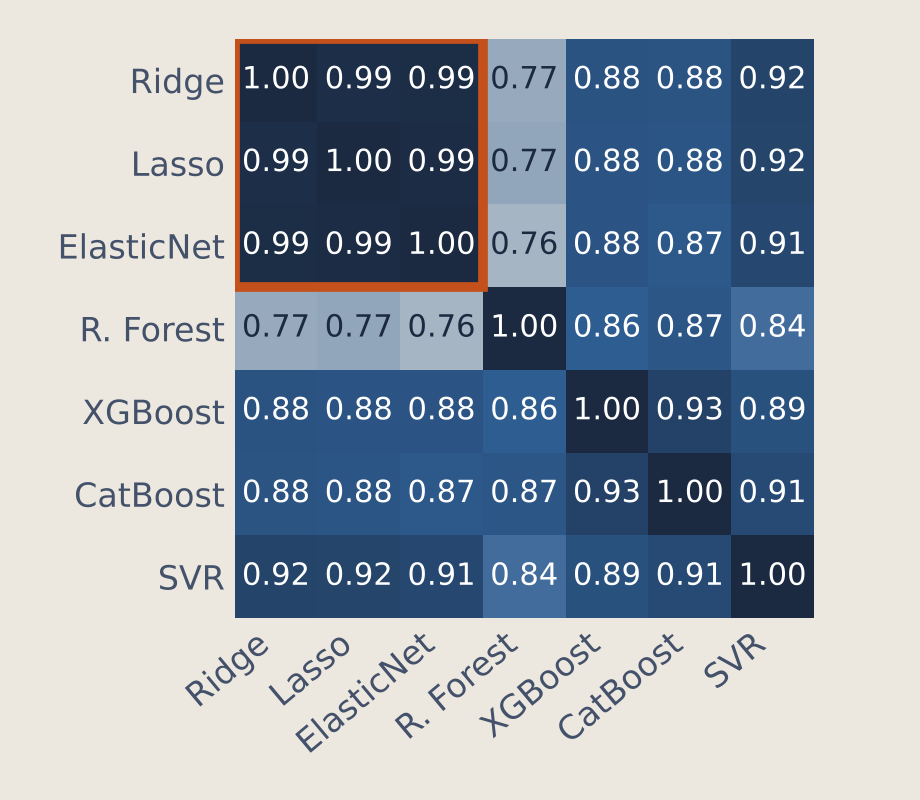
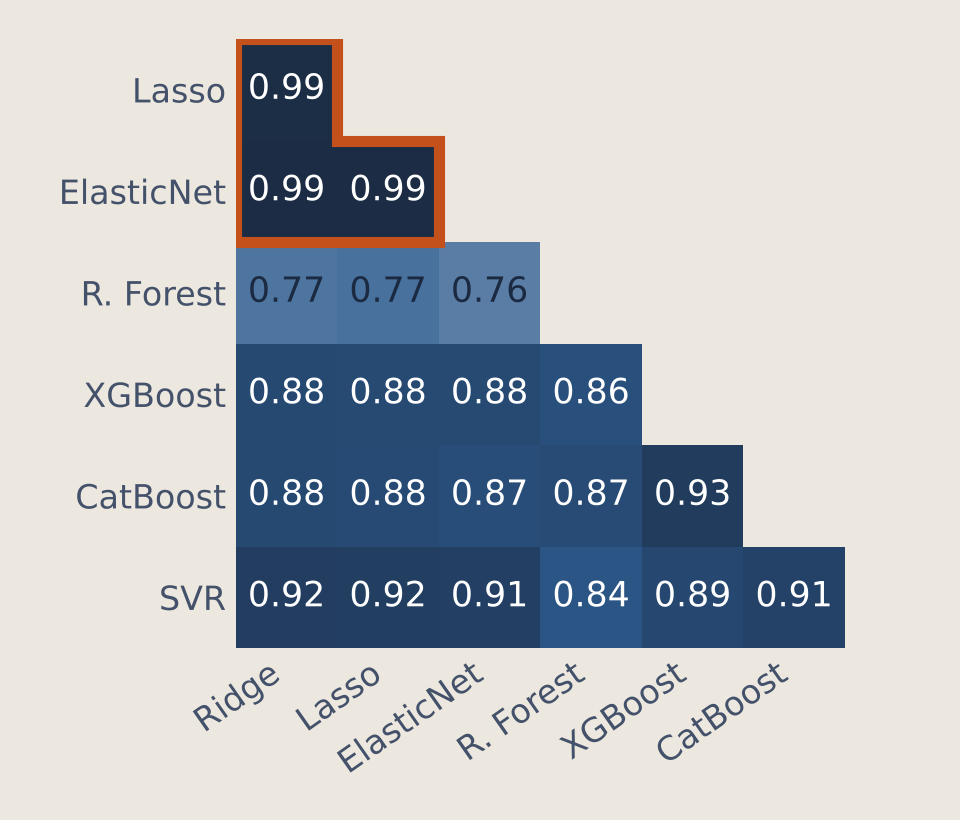
Give the blend and leaderboard charts more room
Slide 9: half heatmap with bigger cells, sized to fit the slide height.
Slide 10: full-width CV vs Kaggle chart with the three points below it.

Claude-Session: https://claude.ai/code/session_012wxNfNDHv6TyzDWgreaVpx

diff --git a/report/slides/project/slides/leaderboard.html b/report/slides/project/slides/leaderboard.html
@@ -3,12 +3,12 @@
 <p class="eyebrow">ON THE LEADERBOARD</p>
 <h2>Our best CV score lost to our first attempt</h2>
 </div>
-<div class="body" style="grid-template-columns:1000px 1fr; gap:64px">
-<img class="fig rise" style="--i:1; width:1000px" src="/_blob/ceef6e349470cbd2ee4b379d960e8939" alt="Line chart of CV and Kaggle scores for submissions S1 to S7; S6 is worse than the first attempt on Kaggle, S7 is better">
-<div class="col" style="gap:40px">
-<p class="lead"><b>S1 to S4:</b> CV and Kaggle improved together.</p>
-<p class="lead"><b>S6</b>, our best CV, scored 0.12037 on Kaggle: worse than the first attempt.</p>
-<p class="lead">Instead of trying more models, we looked at <b>where the errors came from</b>.</p>
+<div class="body" style="grid-template-rows:auto auto; align-content:center; gap:32px">
+<img class="fig rise" style="--i:1; width:1664px" src="/_blob/9a0e5acb584f46db125eb553cb1009ae" alt="Line chart of CV and Kaggle scores for submissions S1 to S7; S6 is worse than the first attempt on Kaggle, S7 is better">
+<div class="cards" style="gap:64px">
+<p class="lead rise" style="--i:2"><b>S1–S4:</b> CV and Kaggle improved together.</p>
+<p class="lead rise" style="--i:3"><b>S6:</b> best CV, but 0.12037 on Kaggle, worse than the first attempt.</p>
+<p class="lead rise" style="--i:4"><b>So</b> we stopped adding models and looked at the errors.</p>
 </div>
 </div>
 <aside>[Member 1] Then we submitted to Kaggle. From S1 to S4, our CV and the leaderboard improved together. After that they did not. Our blend, S6, had our best CV score, but on Kaggle it scored 0.12037, worse than our first attempt. Instead of trying more models, we looked at where our errors came from.</aside>

diff --git a/report/slides/project/slides/blend.html b/report/slides/project/slides/blend.html
@@ -3,12 +3,10 @@
 <p class="eyebrow">BLENDING</p>
 <h2>Blend models that make different mistakes</h2>
 </div>
-<div class="body" style="grid-template-columns:840px 1fr">
-<div class="col tight rise" style="--i:1">
-<p class="caption">How alike the models’ errors are (correlation)</p>
-<img class="fig" style="width:840px" src="/_blob/d755ca9d7a8ef1349ff2ae21addfc2cf" alt="Heatmap of correlations between the models' errors; Ridge, Lasso and ElasticNet (outlined) correlate at 0.99, the others 0.76 to 0.93">
-</div>
+<div class="body" style="grid-template-columns:760px 1fr; gap:96px">
+<img class="fig rise" style="--i:1; height:640px; width:auto" src="/_blob/e3919176590204f5979c33e2d35b53e0" alt="Half heatmap of correlations between the models' errors; Ridge, Lasso and ElasticNet (outlined) correlate at 0.99, the others 0.76 to 0.93">
 <div class="col" style="gap:40px">
+<p class="caption">The chart shows how alike the models’ errors are (correlation, 1.00 = identical).</p>
 <p class="lead">Ridge, Lasso and ElasticNet make almost the same errors (0.99), so we keep only <b>Lasso</b>.</p>
 <p class="lead">Lasso + XGBoost + CatBoost + SVR, <b>equal weights</b>:</p>
 <div class="col tight">

diff --git a/report/make_slide_figures.py b/report/make_slide_figures.py
@@ -46,23 +46,24 @@ ax.set(xlabel="living area (sq ft)", ylabel="price ($1,000)", xlim=(0, 6000))
 fig.tight_layout()
 save(fig, "outliers.png", ALT)
 
-# CV vs Kaggle by submission: 1000 x 660 px
+# CV vs Kaggle by submission: full slide width, 1664 x 540 px
 k = pd.read_csv(ROOT / "v2" / "results" / "kaggle_log.csv")
 x = np.arange(1, len(k) + 1)
-fig, ax = plt.subplots(figsize=(5.0, 3.3))
-ax.axhline(0.11745, ls=(0, (4, 3)), color=GREY, lw=1.5)
-ax.text(0.85, 0.1168, "first attempt 0.11745", va="top", fontsize=11, color=SOFT)
-ax.plot(x, k.cv_rmse, "o-", color=BLUE, lw=2, ms=7, label="our CV")
-ax.plot(x, k.kaggle_score, "s-", color=ACCENT, lw=2, ms=7, label="Kaggle")
-ax.annotate("0.12037", (6, 0.12037), xytext=(0, 12), textcoords="offset points", ha="center", fontsize=11, color=INK)
-ax.annotate("0.11624", (7, 0.11624), xytext=(-14, -4), textcoords="offset points", ha="right", va="top", fontsize=11, color=INK, weight="bold")
+fig, ax = plt.subplots(figsize=(8.32, 2.7))
+ax.hlines(0.11745, 0.7, 7.15, ls=(0, (4, 3)), color=GREY, lw=1.5)
+ax.text(1, 0.1180, "first attempt 0.11745", va="bottom", fontsize=12, color=SOFT)
+ax.plot(x, k.cv_rmse, "o-", color=BLUE, lw=2.2, ms=8, label="our CV")
+ax.plot(x, k.kaggle_score, "s-", color=ACCENT, lw=2.2, ms=8, label="Kaggle")
+ax.annotate("0.12037", (6, 0.12037), xytext=(0, 12), textcoords="offset points", ha="center", fontsize=12, color=INK)
+ax.annotate("0.11624", (7, 0.11624), xytext=(16, 0), textcoords="offset points", ha="left", va="center", fontsize=12, color=INK, weight="bold")
 ax.set_xticks(x, [f"S{i}" for i in x])
-ax.set(ylabel="RMSE (log price)", ylim=(0.110, 0.16), xlim=(0.6, 7.4))
+ax.set_yticks([0.12, 0.14, 0.16])
+ax.set(ylabel="RMSE", ylim=(0.112, 0.16), xlim=(0.7, 7.6))
 ax.legend(frameon=False, loc="upper right", ncol=2)
 fig.tight_layout()
 save(fig, "leaderboard.png", LIGHT)
 
-# residual correlation heatmap: 920 x 800 px, recomputed from the notebook's OOF predictions
+# residual correlation heatmap, lower triangle: 960 x 820 px, recomputed from the notebook's OOF predictions
 os.chdir(ROOT / "v2")
 # the notebook parts save their own figures; skip that here so v2/results/figures stays untouched
 _savefig = matplotlib.figure.Figure.savefig
@@ -77,16 +78,19 @@ matplotlib.figure.Figure.savefig = _savefig
 names = ["ridge", "lasso", "elasticnet", "rf", "xgb", "catboost", "svr"]
 labels = ["Ridge", "Lasso", "ElasticNet", "R. Forest", "XGBoost", "CatBoost", "SVR"]
 res = pd.DataFrame({n: ns["y_log"] - ns["oof"][n] for n in names}).corr().to_numpy()
-fig, ax = plt.subplots(figsize=(4.6, 4.0))
+tri = np.where(np.tril(np.ones_like(res), -1)[1:, :-1] == 1, res[1:, :-1], np.nan)  # rows Lasso..SVR, cols Ridge..CatBoost
+fig, ax = plt.subplots(figsize=(4.8, 4.1))
 cmap = matplotlib.colors.LinearSegmentedColormap.from_list("deck", [ALT, BLUE, INK])
-ax.imshow(res, cmap=cmap, vmin=0.7, vmax=1)
-ax.set_xticks(range(7), labels, rotation=40, ha="right", fontsize=12)
-ax.set_yticks(range(7), labels, fontsize=12)
-for i in range(7):
-    for j in range(7):
-        ax.text(j, i, f"{res[i, j]:.2f}", ha="center", va="center", fontsize=11,
-                color="white" if res[i, j] > 0.8 else INK)
-ax.add_patch(matplotlib.patches.Rectangle((-0.5, -0.5), 3, 3, fill=False, edgecolor=ACCENT, lw=3.5))
+cmap.set_bad(ALT)
+ax.imshow(tri, cmap=cmap, vmin=0.6, vmax=1)
+ax.set_xticks(range(6), labels[:-1], rotation=35, ha="right", fontsize=12)
+ax.set_yticks(range(6), labels[1:], fontsize=12)
+for i in range(6):
+    for j in range(i + 1):
+        ax.text(j, i, f"{tri[i, j]:.2f}", ha="center", va="center", fontsize=12.5,
+                color="white" if tri[i, j] > 0.8 else INK)
+ax.add_patch(matplotlib.patches.Polygon([(-0.5, -0.5), (0.5, -0.5), (0.5, 0.5), (1.5, 0.5), (1.5, 1.5), (-0.5, 1.5)],
+                                        closed=True, fill=False, edgecolor=ACCENT, lw=4))
 ax.spines[:].set_visible(False)
 ax.tick_params(length=0)
 fig.tight_layout()
